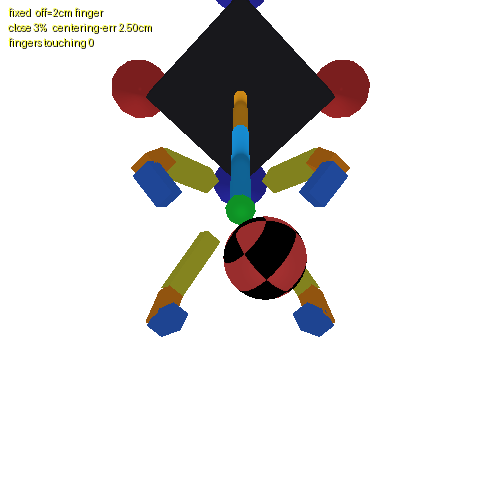
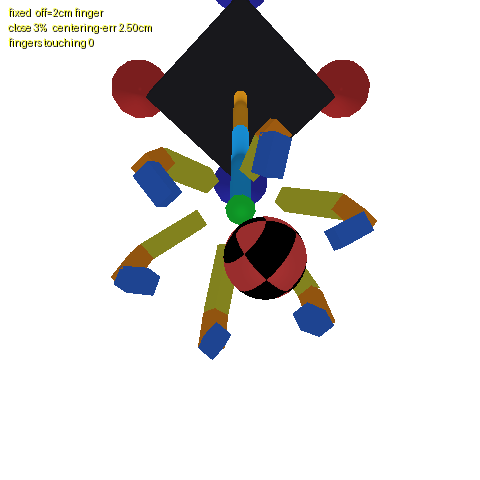
docs: §28 win/null migration frames + n6 nominal-vs-converged subtlety

Changed region(s): [[0.2188, 0.4375, 0.5, 0.75], [0.5, 0.25, 0.7812, 0.5312]]

diff --git a/docs/iteration_findings.md b/docs/iteration_findings.md
@@ -1141,6 +1141,23 @@ mislabeled it "snap"; the dense trace corrected it). Frames
 side) → `..._010pct.png` (centered, symmetric wrap); fixed stays put over the
 same window.
 
+**Win vs null, rendered (so the narrowness is visible, not just tabular):**
+- WIN — n4-3.5 cm-finger (the cleanest convergent cell): migration drop soft
+  **+2.64 cm** vs fixed **+0.64 cm** (both gradual ~60 ms rolls) — soft re-centers
+  ~4× more. Seated frame `cageQ_soft_n4_finger_35mm_seated_under.png` (ball near
+  center, CE 1.04 cm) vs fixed `cageQ_fixed_n4_gap_35mm_seated_side.png` (pinned
+  off-center, CE 3.68 cm, symmetry 0.32).
+- CLEAN NULL — n4-2.5 cm-**gap**: migration drop soft **+0.03 cm**, fixed
+  **+0.02 cm** — NEITHER re-centers (both hold ~2.1–2.4 cm off-center). Frames
+  `migrate_soft_gap_25mm_*` ≈ `migrate_fixed_gap_25mm_*`. This is the visible
+  proof the advantage is direction-specific.
+- SUBTLE NULL — n6-2.5 cm-finger: at the NOMINAL substep-4 numerics the migration
+  shows soft re-centering **+2.49 cm** vs fixed **+0.35 cm** — it LOOKS like a win.
+  But the paired-delta across perturbations straddles 0 (−1.45..+2.17 cm), so the
+  apparent advantage is NOT robust. This is itself the lesson: **a single-timestep
+  frame can look like a win the convergence gate rejects** — the exact §26 trap,
+  which is why the paired/perturbed delta, not one rendered run, decides the verb.
+
 **But the advantage is convergent only in a narrow regime** (the whole point of
 the iteration-2 convergence gate). The PAIRED delta (soft.pull_in − fixed.pull_in
 at the SAME offset/dir/n/perturbation, 8 perturbations each):
@@ -1152,13 +1169,18 @@ at the SAME offset/dir/n/perturbation, 8 perturbations each):
 - n4-2.5 cm-**gap**: −0.31..+0.95 cm → OVERLAPS 0 (no re-centering in the gap dir;
   and soft holds WEAKLY there — soft-4-3.5 cm-gap converges as EM ~2.2–3.0 g,
   rattle high, vs fixed's 10 g).
-Soft's pull-in SIGN is itself timestep-unstable except at n4-3.5 cm-finger, and
-soft's ESCAPE-MARGIN is a knife-edge nearly everywhere (soft-4-2.5 cm-finger
+Soft's pull-in SIGN is itself timestep-unstable except at n4-3.5 cm-finger
+(n4-1.5 cm-finger sign −2.51..+0.46 = NOT stable; n6, n8 NOT stable), and soft's
+ESCAPE-MARGIN is a knife-edge nearly everywhere (soft-4-2.5 cm-finger
 CONVERGED=NO: EM swings 2.5/10/7.97 g across substep+seed — **exactly the §26
-artifact, caught by the gate this time instead of shipped**). So the earned claim
-is narrow: *soft re-centers more than fixed ONLY at low finger-count (n=4), finger
-direction, offset ≥2.5 cm; elsewhere the advantage is not convergently separable
-and soft's escape-margin is not a trustworthy number.*
+artifact, caught by the gate this time instead of shipped**). The n4-1.5 cm
+sign-instability is reported as an OBSERVATION, not a theory: at a small offset the
+re-centering distance is within the timestep/seed noise, so no stable sign appears
+— the effect is only legible at offset ≥2.5 cm in our data; we do not claim a
+mechanism for that threshold. So the earned claim is narrow: *soft re-centers more
+than fixed ONLY at low finger-count (n=4), finger direction, offset ≥2.5 cm;
+elsewhere the advantage is not convergently separable and soft's escape-margin is
+not a trustworthy number.*
 
 ### YALE (faithful underactuated hand) — convergently ejects, but it's the REGIME
 Yale convergently EJECTS the off-center free ball (yale-4-2.5 cm-finger
